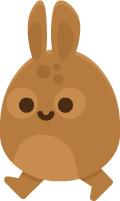
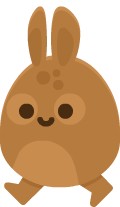
Resize images and add background and diferents ameliorations

diff --git a/jumper/jumper_v2.py b/jumper/jumper_v2.py
@@ -38,6 +38,7 @@ class Player(pygame.sprite.Sprite):
         self.height = self.image.get_height()
         self.height_diff = 0
         self.jump = 0
+        self.speed_base = 5
         self.speed = 0
         self.run_time = 0
         self.rect.y = var.height - 32 - 94 - self.height
@@ -145,6 +146,31 @@ class Pointer(pygame.sprite.Sprite):
         self.rect = self.image.get_rect()
         self.rect.x = 1
         self.rect.y = 1
+
+class Background() :
+    def __init__(self) :
+        var = Var()
+        color = Color()
+
+        self.bg1_base = pygame.image.load("PNG/Background/bg_layer1.png")#.convert()
+        self.bg2_base = pygame.image.load("PNG/Background/bg_layer2.png")#.convert()
+        self.bg3_base = pygame.image.load("PNG/Background/bg_layer3.png")#.convert()
+        self.bg4_base = pygame.image.load("PNG/Background/bg_layer4.png")#.convert()
+
+        self.bg = pygame.Surface([var.width, var.height])
+
+        self.bg1 = pygame.transform.scale(self.bg1_base, (var.width, var.height))
+        self.bg2 = pygame.transform.scale(self.bg2_base, (var.width, var.height))
+        self.bg3 = pygame.transform.scale(self.bg3_base, (var.width, var.height))
+        self.bg4 = pygame.transform.scale(self.bg4_base, (var.width, var.height))
+        
+        self.bg.blit(self.bg1, [0, 0])
+        self.bg.blit(self.bg2, [0, 0])
+        self.bg.blit(self.bg3, [0, 0])
+        self.bg.blit(self.bg4, [0, 0])
+
+    def update(self, screen) :
+        screen.blit(self.bg, [0, 0])
 
 class Game :
     def menu():
@@ -257,6 +283,7 @@ class Game :
         
         screen = pygame.display.set_mode([var.width, var.height])
         clock = pygame.time.Clock()
+        background = Background()
 
         done_game = False
     
@@ -295,10 +322,10 @@ class Game :
                     done_game = True
                 elif event.type == pygame.KEYDOWN :
                     if event.key == pygame.K_RIGHT :
-                        player.speed = 5
+                        player.speed = player.speed_base
                         direction = "right"
                     elif event.key == pygame.K_LEFT :
-                        player.speed = -5
+                        player.speed = -(player.speed_base)
                         direction = "left"
                     elif event.key == pygame.K_UP :
                         if GROUND == 1 :
@@ -339,12 +366,17 @@ class Game :
                         player.rect.y = ground.rect.y - player.height
                         last_ground = ground
                     elif (player.rect.x + player.width) >= (ground.rect.x) and (player.rect.x + player.width) <= (ground.rect.x + ground.width) :
-                        player.rect.x -= 5
-                    elif (player.rect.x) <= (ground.rect.x + ground.width) and (player.rect.x) >= (ground.rect.x) :
-                        player.rect.x += 5
+                        player.rect.x -= player.speed_base
+                        player.rect.y += 3
+                    elif (player.rect.x) < (ground.rect.x + ground.width) and (player.rect.x) > (ground.rect.x) :
+                        player.rect.x = (ground.rect.x + ground.width)
+                        player.rect.y += 3
+                    elif (player.rect.y) <= (groung.rect.y + ground.height + 1) and player.rect.y > (ground.rect.y + ground.height - 10) :
+                        player.rect.y = (ground.rect.y + ground.height)
+                        player.rect.y += 3
                     ground_list.add(ground)
                     all_game_sprites_list.add(ground)
-            elif (player.rect.x + player.width) < (last_ground.rect.x) or (player.rect.x) > (last_ground.rect.x + last_ground.width) : 
+            elif (player.rect.x + player.width) <= (last_ground.rect.x) or (player.rect.x) >= (last_ground.rect.x + last_ground.width) : 
                 GROUND = 0
                 player.rect.y += 3
 
@@ -353,8 +385,8 @@ class Game :
             ########## CLEAR SCREEN ZONE ##########
         
             ## Set the entier screnn to white
-            screen.fill(color.BLACK)
-        
+            #screen.fill(color.BLACK)
+            background.update(screen)
         
             ########## DRAWING CODE ZONE ##########
             
